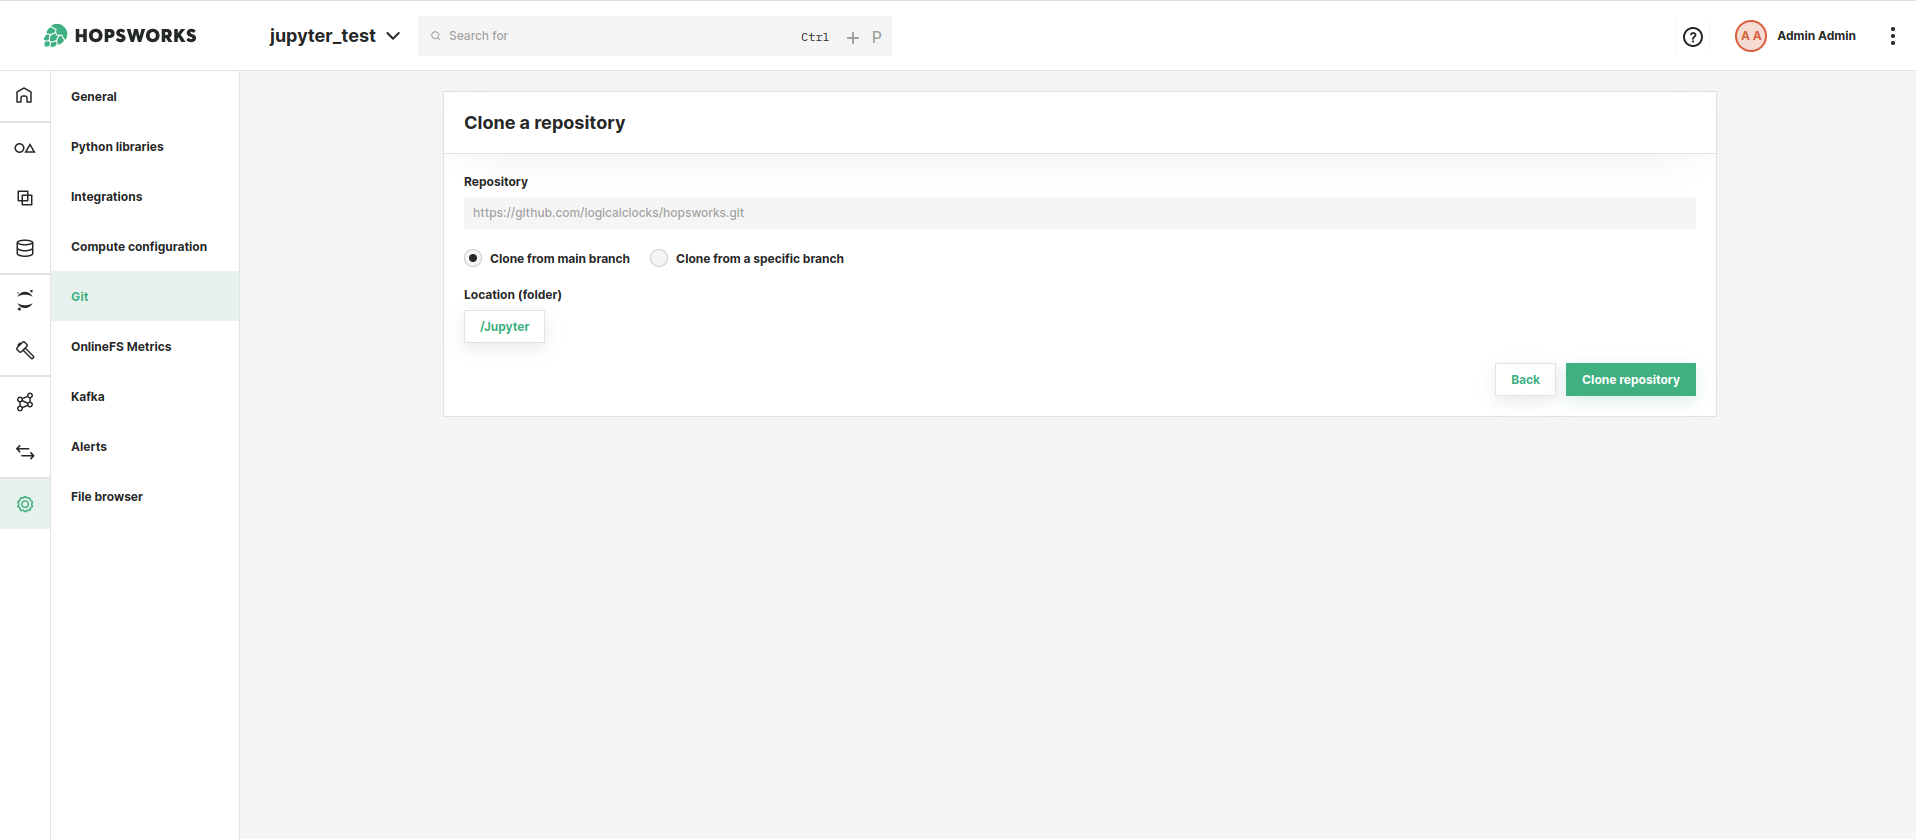
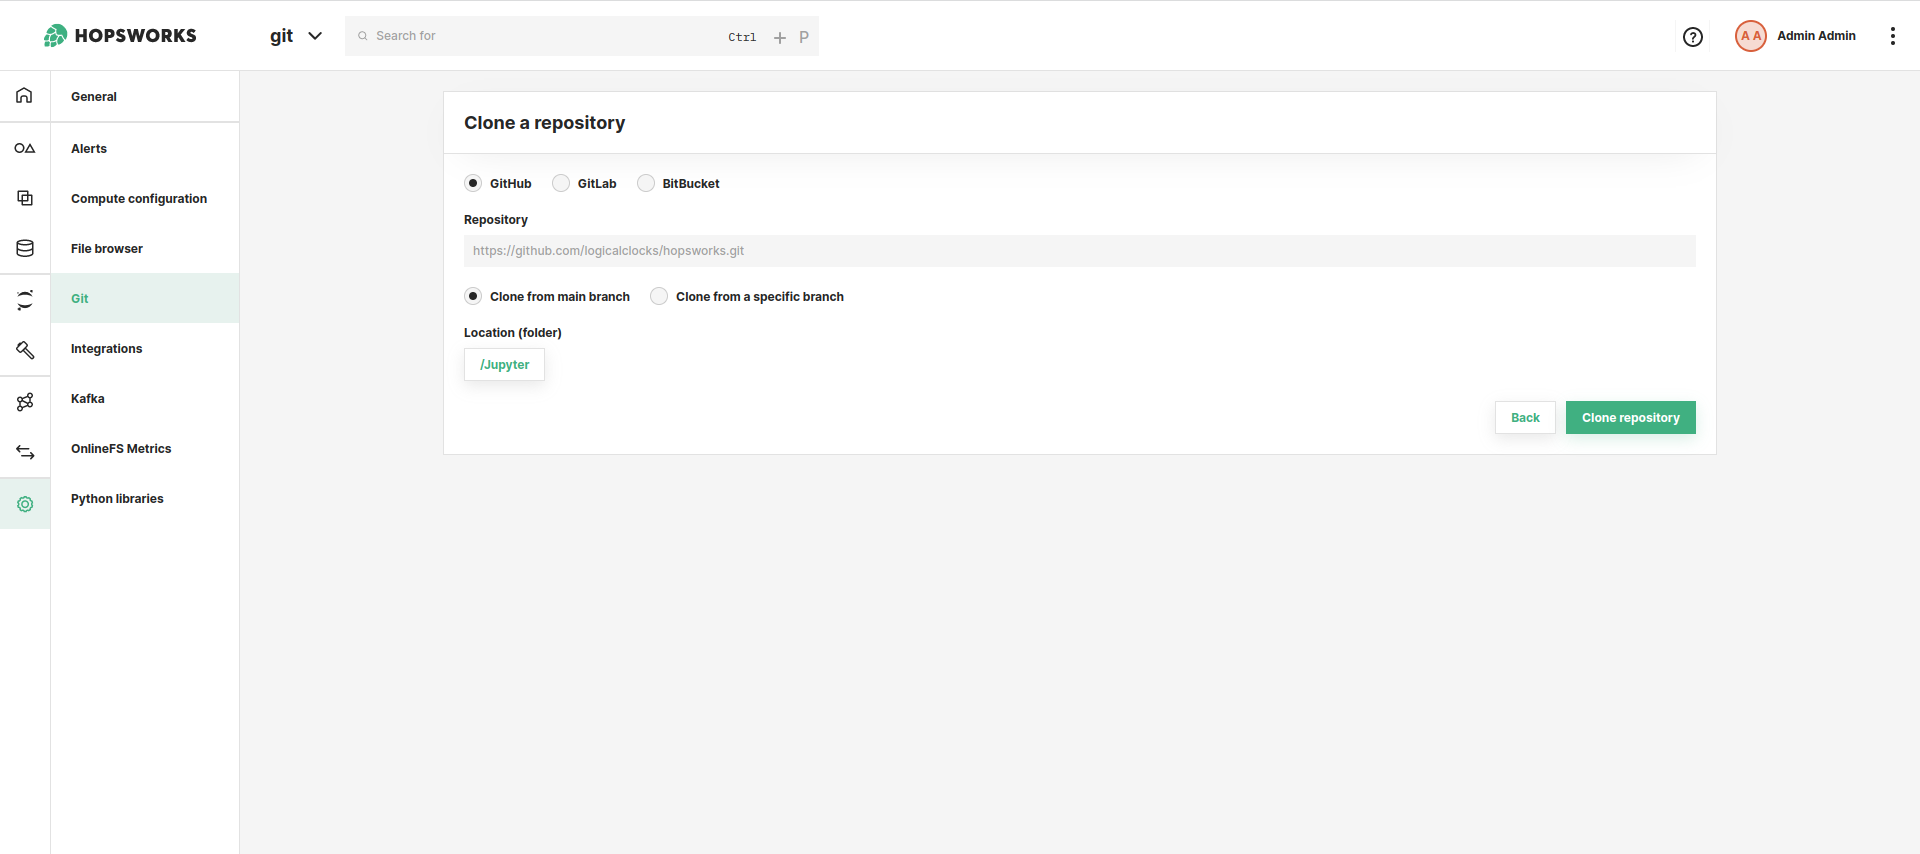
[HWORKS-37] [HWORKS-26] [HWORKS-8] [HWORKS-11] Improve git documentation

diff --git a/docs/user_guides/projects/git/clone_repo.md b/docs/user_guides/projects/git/clone_repo.md
@@ -10,7 +10,7 @@ Repositories can be managed from the Git section in the project settings. The Gi
 
 ## Prerequisites
 
-This guide requires that you have previously configured a [Git Provider](configure_git_provider.md) with your git credentials.
+For cloning a private repository, you should configure a [Git Provider](configure_git_provider.md) with your git credentials. You can clone a GitHub and GitLab public repository without configuring the provider. However, for BitBucket you always need to configure the username and password to clone a repository.
 
 ## UI
 
@@ -42,7 +42,7 @@ To clone a new repository, click on the `Clone repository` button on the Git ove
   </figure>
 </p>
 
-The clone dialog asks you to specify the URL of the repository to clone. The supported protocol is HTTPS. As an example, if the repository is hosted on GitHub, the URL should look like: `https://github.com/logicalclocks/hops-examples.git`.
+You should first choose the git provider e.g., GitHub, GitLab or BitBucket. If you are cloning a private repository, remember to configure the username and password for the provder first in [Git Provider](configure_git_provider.md). The clone dialog also asks you to specify the URL of the repository to clone. The supported protocol is HTTPS. As an example, if the repository is hosted on GitHub, the URL should look like: `https://github.com/logicalclocks/hops-examples.git`.
 
 Then specify which branch you want to clone. By default the `main` branch will be used, however a different branch or commit can be specified by selecting `Clone from a specific branch`.
 
@@ -65,7 +65,7 @@ The progress of the git clone can be tracked under `Git Executions`.
 
 ### Step 4: Browse repository files
 
-In the `File browser` page you can now browse the files of the cloned repository, found on the path in `Jupyter/hops-examples`
+In the `File browser` page you can now browse the files of the cloned repository. In the figure below, the repository is located in `Jupyter/hops-examples` directory.
 
 <p align="center">
   <figure>
@@ -76,24 +76,10 @@ In the `File browser` page you can now browse the files of the cloned repository
   </figure>
 </p>
 
-### Step 5: Repository actions
-
-The operation to perform on the cloned repository can be found in the dropdown as shown below.
-
-<p align="center">
-  <figure>
-    <a  href="../../../../assets/images/guides/git/repo_actions.gif">
-      <img src="../../../../assets/images/guides/git/repo_actions.gif" alt="Repository actions a repository">
-    </a>
-    <figcaption>Repository actions</figcaption>
-  </figure>
-</p>
-
 ## Code
-
+You can also clone a repository through the hopsworks git API in python.
+q
 ### Step 1: Get the git API
-
-This snippet assumes the python script is in the current working directory and named `script.py`. It will upload the python script to run to the `Jupyter` dataset.
 
 ```python
 

diff --git a/docs/user_guides/projects/git/repository_actions.md b/docs/user_guides/projects/git/repository_actions.md
@@ -1,0 +1,55 @@
+# Repository actions
+## UI
+The operations to perform on the cloned repository can be found in the dropdown as shown below.
+
+<p align="center">
+  <figure>
+    <a  href="../../../../assets/images/guides/git/repo_actions.gif">
+      <img src="../../../../assets/images/guides/git/repo_actions.gif" alt="Repository actions a repository">
+    </a>
+    <figcaption>Repository actions</figcaption>
+  </figure>
+</p>
+
+Note that some repository actions will require the username and password to be configured first depending on the provider. For example to be able to perform a push action in any repository, you must configure the provider for the repository first. To be able to perform a pull action for the for a GitLab repository, you must configure the GitLab first. You will see the dialog below in the case you need to configure the provider first to perform the repository action.
+
+<p align="center">
+  <figure>
+    <a  href="../../../../assets/images/guides/git/provider_not_configured_for_repo_action.png">
+      <img src="../../../../assets/images/guides/git/provider_not_configured_for_repo_action.png" alt="Provider not configured">
+    </a>
+    <figcaption>Configure provider prompt</figcaption>
+  </figure>
+</p>
+
+## Code
+You can also perform the repository actions through the hopsworks git API in python. 
+### Step 1: Get the git API
+
+```python
+
+import hopsworks
+
+connection = hopsworks.connection()
+
+project = connection.get_project()
+
+git_api = project.get_git_api()
+
+```
+### Step 2: Get the git repository
+```python
+git_repo = git_api.get_repo(REPOSITORY_NAME)
+
+```
+
+### Step 3: Perform the git repository action e.g commit
+```python
+git_repo = git_api.commit("Test commit")
+
+```
+
+### API Reference
+Api reference for repository actions is available here:
+[GitRepo](https://docs.hopsworks.ai/hopsworks-api/dev/generated/api/git_repo/)
+

diff --git a/docs/user_guides/projects/git/configure_git_provider.md b/docs/user_guides/projects/git/configure_git_provider.md
@@ -18,6 +18,8 @@ Documentation on how to generate a token for the supported Git hosting services 
 - [GitLab](https://docs.gitlab.com/ee/user/profile/personal_access_tokens.html)
 - [BitBucket](https://confluence.atlassian.com/bitbucketserver/http-access-tokens-939515499.html)
 
+The token permission should grant access to public and private repositories including read and write access to code and commit statuses.
+
 ### Step 1: Navigate to Git Providers
 
 In the `Account Settings` page you can find the `Git Providers` section. The Git provider section displays which providers have been already configured and can be used to clone new repositories.
@@ -62,10 +64,8 @@ The configured provider should now be marked as configured.
 </p>
 
 ## Code
-
+You can also configure a git provider through the hopsworks git API in python.
 ### Step 1: Get the git API
-
-This snippet assumes the python script is in the current working directory and named `script.py`. It will upload the python script to run to the `Resources` dataset.
 
 ```python
 
